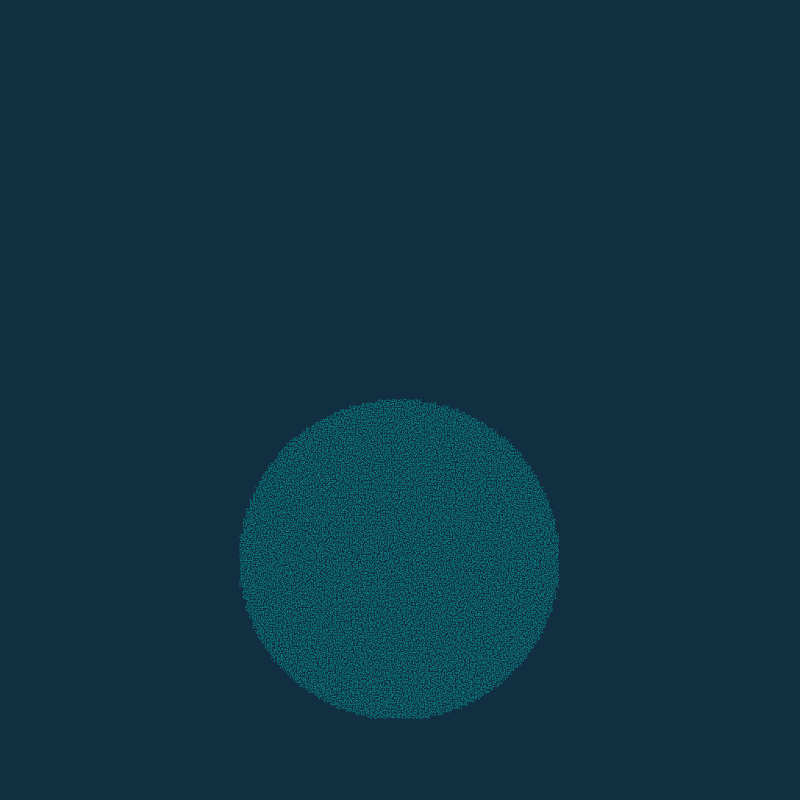
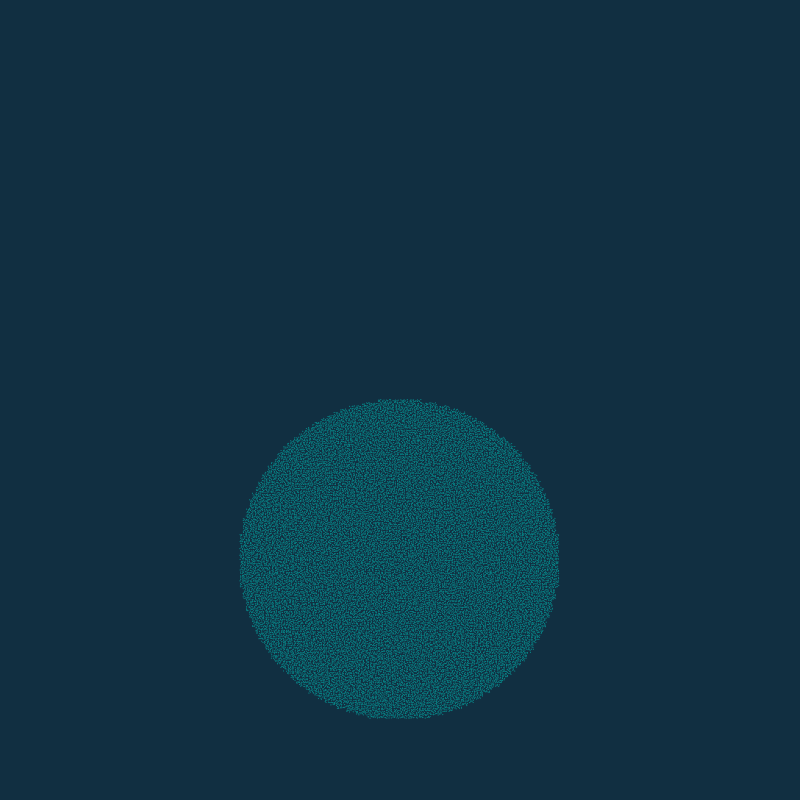
revise inner force integration

Changed region(s): [[0.2812, 0.5, 0.7188, 0.9062]]

diff --git a/phase_change.py b/phase_change.py
@@ -46,10 +46,10 @@ mu_fluid, lambda_fluid = E_fluid / (2 * (1 + nu_fluid)), E_fluid * nu_fluid / (
     (1 + nu_fluid) * (1 - 2 * nu_fluid))  # Lame parameters
 
 # Initial value
-# T_air_init = 343 # 343K
-# T_solid_init = 373 # 373K
-T_air_init = 273
-T_solid_init = 273
+T_air_init = 343 # 343K
+T_solid_init = 373 # 373K
+# T_air_init = 273
+# T_solid_init = 273
 T_fluid_init = 273 # freezing point
 
 # heat capacity
@@ -556,10 +556,10 @@ def apply_force(dt: ti.f32):
 
     # internal force (have been calculated in P2G)
     for i, j in u:
-        u[i, j] += fu[i, j] * dt
+        u[i, j] += (fu[i, j]/u_face_mass[i, j]) * dt
     
     for i, j in v:
-        v[i, j] += fv[i, j] * dt
+        v[i, j] += (fv[i, j]/v_face_mass[i, j]) * dt
 
     # gravity(only u direction)
     for i, j in u:
